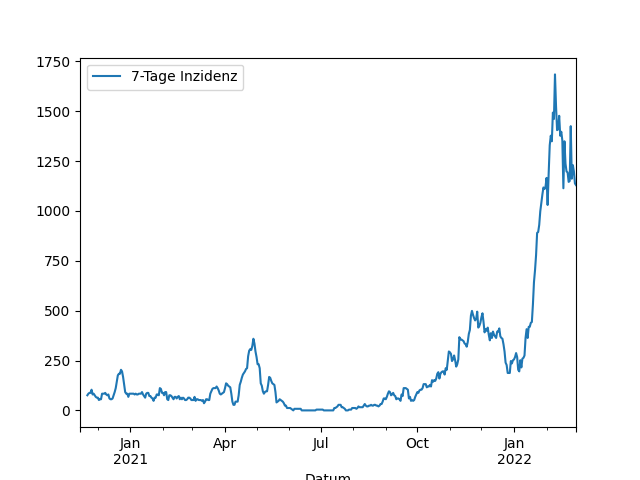
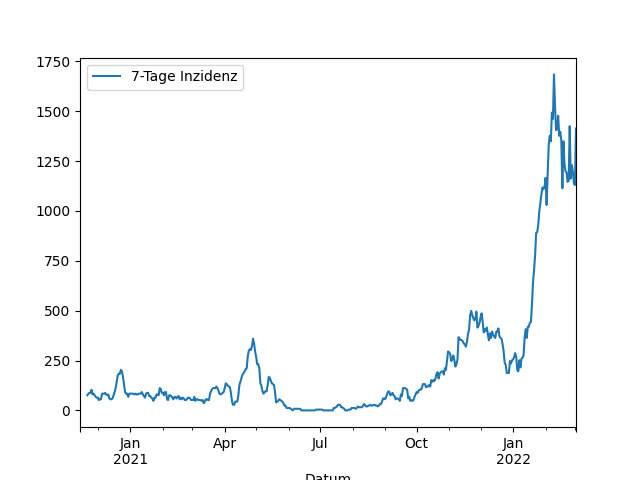
Update images

diff --git a/_includes/aktuelle_inzidenz.md b/_includes/aktuelle_inzidenz.md
@@ -1,1 +1,1 @@
-1129,7
+1413,1
